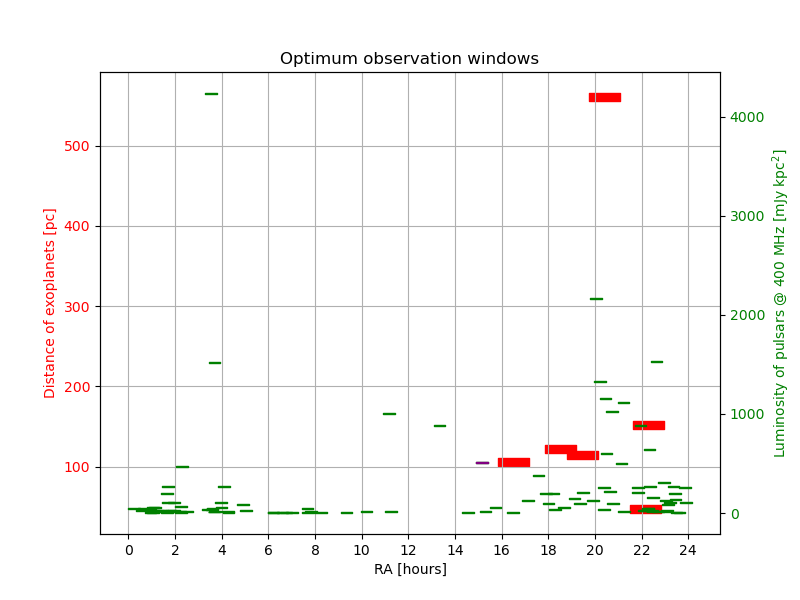
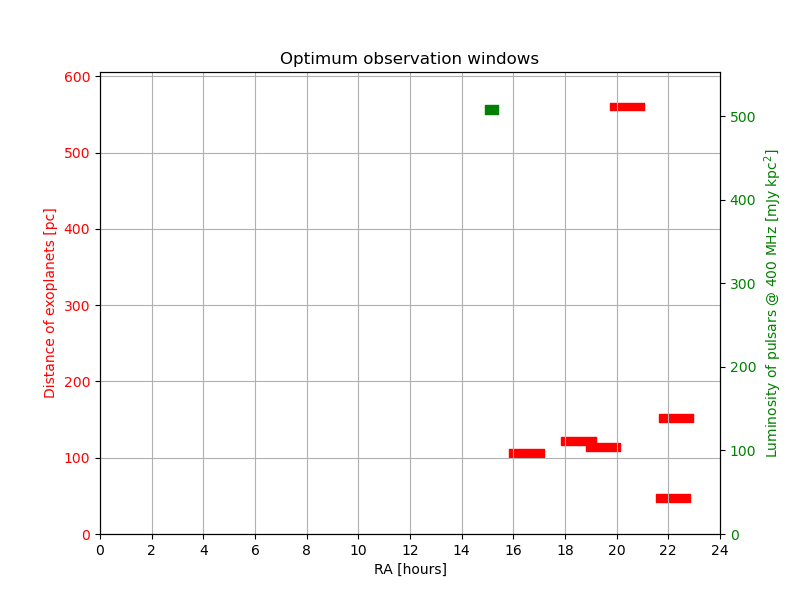
Fixed bugs in scheduling.py

diff --git a/scheduling.py b/scheduling.py
@@ -188,8 +188,8 @@ for i in range(len(planets)):
     ax1.broken_barh([(planets['ra'][i] - (pointing_time_planet - 1/60) * 7.5, (pointing_time_planet - 1/60) * 15)], (planets['sy_dist'][i], 10), color='red')
 
 # Plot the calibration pulsar
-ax2.broken_barh([(Angle(psr_coords[0].ra, u.hourangle).value * 15 - (pointing_time_psr_cal - 1/60) * 7.5, (pointing_time_psr_cal - 1/60) * 15)], (pulsars['R_LUM'][0], 10), color='green')
-        
+ax2.broken_barh([(Angle(psr_coords.ra.value, u.deg).value - (pointing_time_psr_cal - 1/60) * 7.5, (pointing_time_psr_cal - 1/60) * 15)], (pulsars['R_LUM'], 10), color='green')
+
 ax1.set_title('Optimum observation windows')
 ax1.set_xticks(np.arange(0, 361, 30))
 ax1.set_xticklabels(np.arange(0, 25, 2))
@@ -199,6 +199,8 @@ ax1.set_ylabel('Distance of exoplanets [pc]', color='red')
 ax1.tick_params(axis='y', labelcolor='red')
 ax2.set_ylabel(r'Luminosity of pulsars @ 400 MHz [mJy kpc$^2$]', color='green')
 ax2.tick_params(axis='y', labelcolor='green')
+ax1.set_ylim([0, max(planets['sy_dist']) + 50])
+ax2.set_ylim([0, pulsars['R_LUM'] + 50])
 plt.savefig('optimum.png')
 
 ########################
@@ -211,8 +213,8 @@ end_LST = LST_end_mid.value * 360/24
 
 # Calibration pulsar
 ax1.broken_barh([(current_LST, pointing_time_psr_cal * 15)], (0, 10), color='green')
-ax1.text(current_LST, 5, pulsars['NAME'][0])
-ax1.plot(psr_coords[ind].ra.value, 0, 'bo')
+ax1.text(current_LST, 5, pulsars['NAME'])
+ax1.plot(psr_coords.ra.value, 0, 'bo')
 
 current_LST += pointing_time_psr_cal * 15
 
@@ -257,16 +259,16 @@ sched_iLiSA = Table(names=('Name', 'Time', 'RA', 'DEC', 'freqrng', 'dur'), dtype
 time = starting_time.mjd
 
 # Record the calibraton pulsar
-sched_iLiSA.add_row((pulsars['NAME'][0], Time(time, format='mjd').iso[11:16], psr_coords[0].ra.value*u.deg.to(u.rad), psr_coords[0].dec.value*u.deg.to(u.rad), freq_range, str(int(np.round((pointing_time_psr_cal - 1/60) * 60))) + 'm'))
+sched_iLiSA.add_row((pulsars['NAME'], Time(time, format='mjd').iso[11:16], psr_coords.ra.value*u.deg.to(u.rad), psr_coords.dec.value*u.deg.to(u.rad), freq_range, str(int(np.round((pointing_time_psr_cal - 1/60) * 60))) + 'm'))
 
 # Wait for the 31 minutes
 time += pointing_time_psr_cal/24
 
 # Add the planets
-for i in range(1, len(target_list)):
-    if i == len(target_list) - 1:
+for i in range(len(target_list) - 1):
+    if i == len(target_list) - 2:
         dur = np.round((ending_time.mjd - time)*u.day.to(u.min))
-        sched_iLiSA.add_row((planets['hostname'][i], Time(time, format='mjd').iso[11:16], planets['ra'][i]*u.deg.to(u.rad), planets['dec'][i]*u.deg.to(u.rad), freq_range, str(dur) + 'm'))
+        sched_iLiSA.add_row((planets['hostname'][-1], Time(time, format='mjd').iso[11:16], planets['ra'][-1]*u.deg.to(u.rad), planets['dec'][-1]*u.deg.to(u.rad), freq_range, str(dur) + 'm'))
     else:
         sched_iLiSA.add_row((planets['hostname'][i], Time(time, format='mjd').iso[11:16], planets['ra'][i]*u.deg.to(u.rad), planets['dec'][i]*u.deg.to(u.rad), freq_range, str(int(np.round((pointing_time_planet - 1/60) * 60))) + 'm'))
 
@@ -283,23 +285,17 @@ time = starting_time.mjd
 
 end_time = time + (pointing_time_psr_cal - 1/60)/24
 
-index = pulsars['NAME'] == target_list[0]
-ind = np.argwhere(index)[0][0]
-
-sched_realta.add_row((Time(time, format='mjd').iso, '-', Time(end_time, format='mjd').iso, ':', pulsars['NAME'][ind], f'[{psr_coords[ind].ra.value*u.deg.to(u.rad)}, {psr_coords[ind].dec.value*u.deg.to(u.rad)}, \'J2000\']'))
+sched_realta.add_row((Time(time, format='mjd').iso, '-', Time(end_time, format='mjd').iso, ':', pulsars['NAME'], f'[{psr_coords.ra.value*u.deg.to(u.rad)}, {psr_coords.dec.value*u.deg.to(u.rad)}, \'J2000\']'))
 
 time += pointing_time_psr_cal/24
 
-for i in range(1, len(target_list)):
-    index = planets['hostname'] == target_list[i]
-    ind = np.argwhere(index)[0][0]
-
+for i in range(0, len(target_list) - 1):
     end_time = time + (pointing_time_planet - 1/60)/24
-    # Make sure the end tiem doesn't overshoot
+    # Make sure the end time doesn't overshoot
     if end_time > ending_time.mjd:
         end_time = ending_time.mjd
 
-    sched_realta.add_row((Time(time, format='mjd').iso, '-', Time(end_time, format='mjd').iso, ':', planets['hostname'][ind], f'[{planets[ind][1]*u.deg.to(u.rad)}, {planets[ind][2]*u.deg.to(u.rad)}, \'J2000\']'))
+    sched_realta.add_row((Time(time, format='mjd').iso, '-', Time(end_time, format='mjd').iso, ':', planets['hostname'][i], f'[{planets[i][1]*u.deg.to(u.rad)}, {planets[i][2]*u.deg.to(u.rad)}, \'J2000\']'))
 
     # Wait the 1 hr 21 minutes
     time += pointing_time_planet/24     
